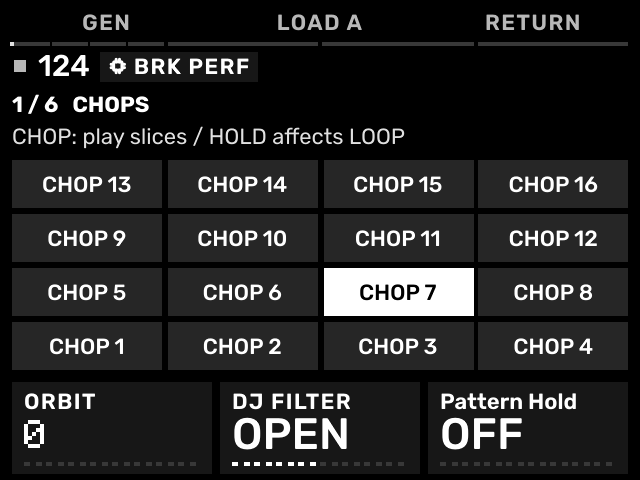
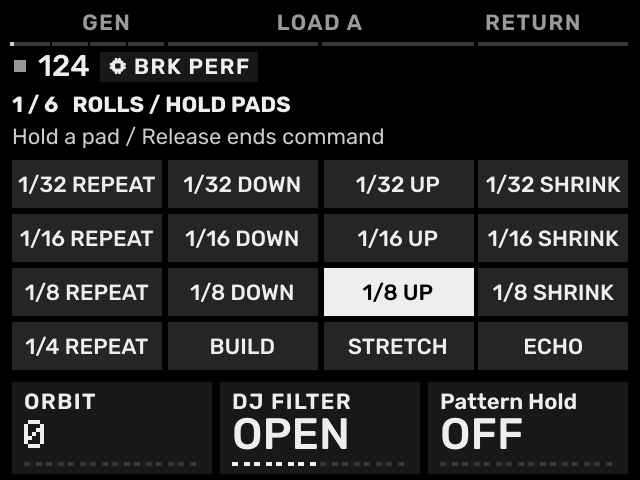
Align Break performance screens and installation download checksums

diff --git a/mpc-sample/index.html b/mpc-sample/index.html
@@ -3,7 +3,7 @@
 <section id="launch-film" class="film-section"><div class="film-heading"><div><p class="eyebrow">WATCH / RHYTHMER OS FOR MPC SAMPLE</p><h2>Your Sample. More to explore.</h2></div><p>Jungle, Techno, House & IDM — an introduction to RHYTHMER OS, its sound engines and ways to build a groove.</p></div><video class="product-film" controls playsinline preload="none" poster="assets/films/launch-youtube.jpg" aria-label="RHYTHMER OS for MPC Sample — landscape film"><source src="https://github.com/jazzyrhythmer/mpc-sample-rhythmer-os/releases/download/v0.4.0-beta.3-r1/RHYTHMER-OS-Launch-YouTube-60s-Acid-Flow.mp4" type="video/mp4">Your browser cannot play this video. <a href="https://github.com/jazzyrhythmer/mpc-sample-rhythmer-os/releases/download/v0.4.0-beta.3-r1/RHYTHMER-OS-Launch-YouTube-60s-Acid-Flow.mp4">Download the film.</a></video><div class="film-links"><a href="https://github.com/jazzyrhythmer/mpc-sample-rhythmer-os/releases/download/v0.4.0-beta.3-r1/RHYTHMER-OS-Launch-YouTube-60s-Acid-Flow.mp4">DOWNLOAD / 16:9 ↗</a><a href="https://github.com/jazzyrhythmer/mpc-sample-rhythmer-os/releases/tag/v0.2.0">OS RELEASE & SOURCE ↗</a></div></section>
 <section id="startup" class="boot-intro"><div><p class="eyebrow">POWER ON / RHYTHMER OS FOR MPC SAMPLE</p><h2>Power on.<br>Follow the possibilities.</h2><p>Your MPC Sample is ready for a new session. Explore synths, build a drum part, flip a break — and see where the next idea takes you.</p><a class="textlink" href="manual/#start">START YOUR FIRST SESSION ↗</a></div><figure class="boot-preview" data-boot-preview><div class="boot-screen"><img src="assets/boot/still.png?v=miniatures-fit1" width="640" height="480" alt="RHYTHMER OS for MPC Sample boot screen"><canvas hidden aria-hidden="true"></canvas></div><figcaption>RHYTHMER OS / FOR MPC SAMPLE</figcaption><button type="button" aria-pressed="false">PLAY BOOT ▶</button></figure></section>
 <section id="workflow"><div class="section-top"><p class="eyebrow">01 / FIND YOUR FLOW</p><h2>Less blank canvas.<br>More starting points.</h2></div><div class="features"><article><span class="num">01</span><h3>Generate. Then make it yours.</h3><p>A four-track song group connects drums with melodic parts. Keep the existing single-track generator, or open Chord GEN for explicit progressions, voicings and Block, Arp or Strum playing. Follow the project key and scale or use a local override.</p><a class="textlink" href="manual/#generate-chords-on-one-track">LEARN CHORD GEN ↗</a></article><article><span class="num">02</span><h3>A kit is not a single sound.</h3><p>Start with a complete Rhythmer Kit, then replace individual pad sounds. Single instruments retain their own presets and sound controls. Different jobs, clearly separated.</p></article><article><span class="num">03</span><h3>Generate Acid. Rearrange breaks.</h3><p>Acid has its own bassline generator. Break turns a loop into playable slices with dedicated pattern generation. Engine-specific pages follow the instrument you are working with.</p></article></div></section>
-<section class="workflow-tools"><p class="eyebrow">MORE WAYS TO BUILD A PATTERN</p><h2>Generate, edit and perform.</h2><div class="features"><article><h3>Song generation</h3><p>Generate a four-track group with drum and melodic roles. Adjust energy and seed, then edit the result.</p></article><article><h3>Keep sounds, change patterns</h3><p>Mutate a song group or focus on one track without replacing its sounds. Undo returns to the previous idea.</p></article><article><h3>Kit and pad editing</h3><p>Start from a complete Rhythmer Kit, replace individual pad sounds, and shape each part.</p></article></div></section><section class="spotlights" id="performance-tools"><article id="acid-generator"><div><p class="eyebrow">ACID GENERATOR / DEDICATED BASSLINES</p><h2>A new line.<br>Another way to move.</h2><p>Generate and mutate acid basslines with dedicated density, accent, slide and octave controls. Shape the notes first, then perform the sound.</p><ul><li>Two settings pages; the generator manages each track’s seed internally.</li><li>Slides, accents and sustained ties from the FM-1 generator lineage.</li><li>Optional Auto Mutate at a musical bar interval.</li></ul><a class="textlink" href="manual/#acid-generator">LEARN THE ACID GENERATOR ↗</a></div><div class="feature-screens"><figure><img src="manual/assets/acid-settings-0.png?v=020-production-22" width="640" height="480" loading="lazy" alt="RHYTHMER ACID GEN density, accent and slide settings"><figcaption>DENSITY / ACCENT / SLIDE</figcaption></figure><figure><img src="manual/assets/acid-settings-1.png?v=020-production-22" width="640" height="480" loading="lazy" alt="RHYTHMER ACID GEN octave and Auto Mutate settings"><figcaption>OCTAVES / AUTO MUTATE</figcaption></figure></div></article><article id="break-manipulator"><div><p class="eyebrow">BREAK MANIPULATOR / BRK PERF</p><h2>Chop it.<br>Roll it. Play it.</h2><p>Bring a loop, prepare sixteen slices, then get hands-on with rolls, A/B source switches, freeze, grain and stretch. Record those moves into the pattern.</p><ul><li>Six performance pages built around the pads and three knobs.</li><li>Chops, repeat / up / down / shrink, Build, Stretch and Echo.</li><li>A/B sources, loop Variation / Drift and sequence-recorded commands.</li></ul><p class="feature-footnote">Uses your own loops. No break recordings bundled. Source length is declared as 1–4 bars; cuts divide the complete loop equally.</p><a class="textlink" href="manual/#break-manipulator">PREPARE A LOOP ↗</a><a class="textlink" href="manual/#break-performance">EXPLORE BRK PERF ↗</a></div><div class="feature-screens"><figure><img src="manual/assets/break-perf-1.png?v=020-production-22" width="640" height="480" loading="lazy" alt="RHYTHMER Break Manipulator roll pad performance screen"><figcaption>ROLLS / HOLD PADS</figcaption></figure><figure><img src="manual/assets/break-perf-2.png?v=020-production-22" width="640" height="480" loading="lazy" alt="RHYTHMER Break Manipulator A/B source performance screen"><figcaption>SOURCE A / B</figcaption></figure></div></article></section>
+<section class="workflow-tools"><p class="eyebrow">MORE WAYS TO BUILD A PATTERN</p><h2>Generate, edit and perform.</h2><div class="features"><article><h3>Song generation</h3><p>Generate a four-track group with drum and melodic roles. Adjust energy and seed, then edit the result.</p></article><article><h3>Keep sounds, change patterns</h3><p>Mutate a song group or focus on one track without replacing its sounds. Undo returns to the previous idea.</p></article><article><h3>Kit and pad editing</h3><p>Start from a complete Rhythmer Kit, replace individual pad sounds, and shape each part.</p></article></div></section><section class="spotlights" id="performance-tools"><article id="acid-generator"><div><p class="eyebrow">ACID GENERATOR / DEDICATED BASSLINES</p><h2>A new line.<br>Another way to move.</h2><p>Generate and mutate acid basslines with dedicated density, accent, slide and octave controls. Shape the notes first, then perform the sound.</p><ul><li>Two settings pages; the generator manages each track’s seed internally.</li><li>Slides, accents and sustained ties from the FM-1 generator lineage.</li><li>Optional Auto Mutate at a musical bar interval.</li></ul><a class="textlink" href="manual/#acid-generator">LEARN THE ACID GENERATOR ↗</a></div><div class="feature-screens"><figure><img src="manual/assets/acid-settings-0.png?v=020-production-22" width="640" height="480" loading="lazy" alt="RHYTHMER ACID GEN density, accent and slide settings"><figcaption>DENSITY / ACCENT / SLIDE</figcaption></figure><figure><img src="manual/assets/acid-settings-1.png?v=020-production-22" width="640" height="480" loading="lazy" alt="RHYTHMER ACID GEN octave and Auto Mutate settings"><figcaption>OCTAVES / AUTO MUTATE</figcaption></figure></div></article><article id="break-manipulator"><div><p class="eyebrow">BREAK MANIPULATOR / BRK PERF</p><h2>Chop it.<br>Roll it. Play it.</h2><p>Bring a loop, prepare sixteen slices, then get hands-on with rolls, A/B source switches, freeze, grain and stretch. Record those moves into the pattern.</p><ul><li>Six performance pages built around the pads and three knobs.</li><li>Chops, repeat / up / down / shrink, Build, Stretch and Echo.</li><li>A/B sources, loop Variation / Drift and sequence-recorded commands.</li></ul><p class="feature-footnote">Uses your own loops. No break recordings bundled. Source length is declared as 1–4 bars; cuts divide the complete loop equally.</p><a class="textlink" href="manual/#break-manipulator">PREPARE A LOOP ↗</a><a class="textlink" href="manual/#break-performance">EXPLORE BRK PERF ↗</a></div><div class="feature-screens"><figure><img src="manual/assets/break-perf-0.png?v=brk-rolls-first" width="640" height="480" loading="lazy" alt="RHYTHMER Break Manipulator roll pad performance screen"><figcaption>ROLLS / HOLD PADS</figcaption></figure><figure><img src="manual/assets/break-perf-2.png?v=020-production-22" width="640" height="480" loading="lazy" alt="RHYTHMER Break Manipulator A/B source performance screen"><figcaption>SOURCE A / B</figcaption></figure></div></article></section>
 <section id="engines"><div class="section-top"><p class="eyebrow">02 / THE SOUND PALETTE</p><h2>Meet your next idea.</h2><p>Pick an engine. Explore its character, presets and control vocabulary.</p></div><div class="filters" role="group" aria-label="Filter engines"><button class="active" data-filter="All">ALL / 22</button><button data-filter="Drums">DRUMS</button><button data-filter="Bass">ACID</button><button data-filter="Sampler">BREAK</button><button data-filter="Synths">SYNTHS</button></div><div class="explorer"><div id="engine-list" aria-label="Engine selection"></div><article class="engine-detail" aria-live="polite"><p class="eyebrow" id="engine-category"></p><h3 id="engine-name"></h3><h4 id="engine-hook"></h4><p id="engine-description"></p><figure id="engine-capture"><div class="detail-live"><img id="engine-image" alt=""><canvas id="detail-motion" aria-hidden="true"></canvas></div><figcaption id="engine-caption"></figcaption></figure><div class="explorer-audio"><label id="explorer-audio-label" for="explorer-audio">PREVIEW</label><audio id="explorer-audio" controls preload="none" aria-labelledby="explorer-audio-label"></audio></div><div class="control-screen" id="controls"></div><p class="fine" id="control-note"></p><div id="presets"></div></article></div><p class="fine"></p><details><summary>What is inside Rhythmer Kit?</summary><p>36 curated kits from Sophie, Elixir, Hortator, DRUM-X, K-WASUB drum mode, 6W6, 8W8, 9W9, CW-78 and TR-MPC. Kit-only sources are not additional standalone engine entries. The existing Sample Kit workflow remains a separate sampler option.</p></details></section>
 <section id="first-groove" class="first-groove-feature" aria-labelledby="first-groove-title"><p class="eyebrow">FIRST SESSION / WATCH &amp; MAKE</p><h2 id="first-groove-title">Your first groove<br>with RHYTHMER OS.</h2><p class="groove-lead">Find a sound. Build a groove. Make it yours.</p><p class="groove-copy">Take the engines into your first session: a drum kit, bass, FM-106 chords, an acid phrase and a chopped Think break. The video demonstrates the musical idea using earlier screens. Follow the updated 0.2.0 written guide for current buttons, track setup, sound editing and Break controls.</p><div class="groove-video-wrap"><video class="groove-video product-film" controls playsinline preload="none" tabindex="0" poster="manual/assets/fg4-youtube.jpg" aria-label="Your first groove with RHYTHMER OS video"><source src="https://github.com/jazzyrhythmer/mpc-sample-rhythmer-os/releases/download/v0.4.0-beta.3-r2/RHYTHMER-Your-First-Groove-YouTube-v4.mp4" type="video/mp4"><track kind="subtitles" srclang="en" label="English" src="manual/assets/fg4-youtube.vtt">Your browser cannot play this video. <a href="manual/quickstart.html">Open the first-groove guide.</a></video></div><div class="groove-session-meta"><span>4 BARS / 140 BPM / C MINOR</span><span>WATCH FIRST · FOLLOW AT YOUR OWN PACE</span></div><div class="groove-cta"><a class="groove-primary" href="manual/quickstart.html">MAKE YOUR FIRST GROOVE ↗</a><a href="manual/">OPEN THE FULL MANUAL ↗</a></div><p class="groove-fine">A guided session with RHYTHMER OS for MPC Sample. The written guide uses the current 0.2.0 controls. Use your own permitted break sample.</p></section>
 <section id="story"><p class="eyebrow">03 / FROM THE STUDIO</p><div class="story"><h2>From FM-1 curiosity<br>to MPC Sample<br>possibilities.</h2><div><p>I loved exploring open-source engines, building grooves and finding unexpected sounds with RHYTHMER OS on the FM-1. I wanted to bring that freedom and variety to the MPC Sample.</p><p>This project builds on Melodee. Much respect to its developers and contributors for sharing a foundation that gives the community room to experiment.</p><p>My work focuses on porting and optimizing additional engines for the hardware, integrating them with the existing foundation, and adding my own tools, UI refinements and workflow extensions. The original engine creators deserve the credit for their DSP, ideas and sound.</p><p>If you know the stock workflow, this may feel unfamiliar. Give it time, explore, and tell me what gets in the way. There is still plenty to refine.</p><p class="signature">In search of feel-good rhythms.</p></div></div></section>

diff --git a/mpc-sample/manual/quickstart.html b/mpc-sample/manual/quickstart.html
@@ -59,10 +59,10 @@
 <p><strong>Do not apply GENERATE SONG to tracks 1–4 here.</strong> SOUND + MIDI can replace the instruments and patterns you just recorded. ACID GEN and GENERATE T4 work on the selected track instead.</p>
 <h2 id="optional-add-your-own-break-loop-on-track-5">Optional: add your own Break loop on track 5</h2>
 <figure><a href="images/020-break-browse-open.png" target="_blank" rel="noopener" title="Open full-size screen"><img src="images/020-break-browse-open.png" alt="Break source browser: select the source and its bar length" loading="lazy" decoding="async" width="640" height="480"></a><figcaption>Break source browser: select the source and its bar length</figcaption></figure>
-<figure><a href="images/020-break-perf-0.png" target="_blank" rel="noopener" title="Open full-size screen"><img src="images/020-break-perf-0.png" alt="BRK PERF 1: play sixteen chops" loading="lazy" decoding="async" width="640" height="480"></a><figcaption>BRK PERF 1: play sixteen chops</figcaption></figure>
-<figure><a href="images/020-break-perf-1.png" target="_blank" rel="noopener" title="Open full-size screen"><img src="images/020-break-perf-1.png" alt="BRK PERF 2: hold and release performance commands" loading="lazy" decoding="async" width="640" height="480"></a><figcaption>BRK PERF 2: hold and release performance commands</figcaption></figure>
-<ol><li>Put a loop you may use in the card's Samples folder. Start with a known <strong>two-bar</strong> loop.</li><li>Select track 5 → Plugin → <strong>Break Engine</strong>.</li><li>In the browser check <strong class="key">LOAD A</strong> and set <strong>K1 LOAD BARS = 2</strong> before selecting the file and pushing.</li><li>Wait for preparation. BREAK GEN stays open; a straight pattern is prepared if the destination pattern was empty.</li><li>Press PLAY. A two-bar Break pattern can repeat while tracks 1–3 play four bars; their lengths do not have to match.</li><li>Choose <strong class="key">BRK PERF</strong>. Page <strong class="key">1 CHOPS</strong> plays slices; turn the encoder to <strong class="key">2 ROLLS / HOLD PADS</strong> and hold/release a repeat command.</li><li>To reopen setup: select track 5 → SEQ → B1 PATTERNS → SHIFT + B3 GEN → BREAK GEN.</li></ol>
-<p>If it plays at half/double the intended speed, check the source's bar count. Changing Grain knobs alone does not trigger stretching: hold pad 3 STRETCH on page 2, keep it held and turn to page 5. LOOP VARIATIONS requires LOOP mode, playback and PATTERN HOLD off. See the <a href="index.html#12-load-a-break-and-return-to-its-controls">Break instructions</a> before using those pages.</p>
+<figure><a href="images/020-break-perf-0.png" target="_blank" rel="noopener" title="Open full-size screen"><img src="images/020-break-perf-0.png" alt="BRK PERF 1: play sixteen chops" loading="lazy" decoding="async" width="320" height="240"></a><figcaption>BRK PERF 1: play sixteen chops</figcaption></figure>
+<figure><a href="images/020-break-perf-1.png" target="_blank" rel="noopener" title="Open full-size screen"><img src="images/020-break-perf-1.png" alt="BRK PERF 2: hold and release performance commands" loading="lazy" decoding="async" width="320" height="240"></a><figcaption>BRK PERF 2: hold and release performance commands</figcaption></figure>
+<ol><li>Put a loop you may use in the card's Samples folder. Start with a known <strong>two-bar</strong> loop.</li><li>Select track 5 → Plugin → <strong>Break Engine</strong>.</li><li>In the browser check <strong class="key">LOAD A</strong> and set <strong>K1 LOAD BARS = 2</strong> before selecting the file and pushing.</li><li>Wait for preparation. BREAK GEN stays open; a straight pattern is prepared if the destination pattern was empty.</li><li>Press PLAY. A two-bar Break pattern can repeat while tracks 1–3 play four bars; their lengths do not have to match.</li><li>Choose <strong class="key">BRK PERF</strong>. The first page, <strong class="key">1 ROLLS / HOLD PADS</strong>, plays held effects. Turn the encoder to <strong class="key">2 CHOPS</strong> to play individual slices.</li><li>To reopen setup: select track 5 → SEQ → B1 PATTERNS → SHIFT + B3 GEN → BREAK GEN.</li></ol>
+<p>If it plays at half/double the intended speed, check the source's bar count. Changing Grain knobs alone does not trigger stretching: hold pad 3 STRETCH on page 1, keep it held and turn to page 5. LOOP VARIATIONS requires LOOP mode, playback and PATTERN HOLD off. See the <a href="index.html#12-load-a-break-and-return-to-its-controls">Break instructions</a> before using those pages.</p>
 <h2 id="if-you-get-stuck">If you get stuck</h2>
 <div class="table"><div class="table-scroll" role="region" aria-label="Reference table" tabindex="0"><table><thead><tr><th>What happened</th><th>Do this</th></tr></thead><tbody><tr><td>I cannot find the sound page</td><td>Press SAMPLE</td></tr><tr><td>Pads switch patterns</td><td>Release SEQ; press SAMPLE</td></tr><tr><td>Wrong track is being edited</td><td>PAD BANK + target pad; check the header</td></tr><tr><td>No plug-ins listed</td><td>Check the full SD installation and Rhythmer/Plugins</td></tr><tr><td>B1 is a rate instead of TRACK SETUP</td><td>Turn off NOTE REPEAT / ARP, then reopen TRACKS</td></tr><tr><td>I see Save Slot instead of synth controls</td><td>SHIFT + encoder push; return to sound-screen EDIT</td></tr><tr><td>I lost the Break menu</td><td>SEQ → B1 PATTERNS → SHIFT + B3 GEN → BREAK GEN</td></tr><tr><td>An effect or note will not stop</td><td>STOP twice within 400 ms</td></tr></tbody></table></div></div>
 <p>The <a href="index.html">full manual</a> explains instrument replacement, User Sound/Kit saving and the six Break pages. Use the <a href="index.html#essential-controls">button reference</a> to distinguish selecting a track, opening its instrument and choosing its pattern.</p></article></div></main><footer class="manual-footer"><p>RHYTHMER OS — by jazzy rhythmer. Based on Melodee by Kerem Kiliç (Ellic Studio) and the credited engine projects. </p><a href="https://jazzyrhythmer.github.io/mpc-sample/installer/">Installation</a><a href="https://github.com/jazzyrhythmer/mpc-sample-rhythmer-os">Source &amp; credits</a><a href="LICENSE.txt">Licence</a></footer><script>document.getElementById('contents').open=matchMedia('(min-width:901px)').matches;const links=[...document.querySelectorAll('.toc a')];if('IntersectionObserver' in window){const observer=new IntersectionObserver(es=>{for(const e of es)if(e.isIntersecting){for(const a of links){if(a.hash==='#'+e.target.id)a.setAttribute('aria-current','location');else a.removeAttribute('aria-current');}}},{rootMargin:'-20% 0px -65% 0px'});document.querySelectorAll('.doc h2[id]').forEach(h=>observer.observe(h));}document.querySelector('[data-print]').addEventListener('click',()=>window.print());</script></body></html>

diff --git a/mpc-sample/manual/index.html b/mpc-sample/manual/index.html
@@ -112,14 +112,14 @@
 <p>Selecting Break Engine is not the same as loading its source audio: the change is committed after successful file loading. <strong>B1 CANCEL / SHIFT + push while loading</strong> cancels assignment. A later completed decode must not replace another selected track.</p>
 <p>For a new rhythm, select <strong>Straight / Genre / Random / Mutate / Tail Fill</strong> in BREAK GEN and apply it. These change notes/chop order in the pattern. They do not by themselves enable LOOP variation or a STRETCH performance command.</p>
 <span id="break-performance"></span><h3 id="brk-perf-what-each-page-does">BRK PERF: what each page does</h3>
-<figure><a href="images/020-break-perf-0.png" target="_blank" rel="noopener" title="Open full-size screen"><img src="images/020-break-perf-0.png" alt="BRK PERF 1: play sixteen chops" loading="lazy" decoding="async" width="640" height="480"></a><figcaption>BRK PERF 1: play sixteen chops</figcaption></figure>
-<figure><a href="images/020-break-perf-1.png" target="_blank" rel="noopener" title="Open full-size screen"><img src="images/020-break-perf-1.png" alt="BRK PERF 2: hold and release performance commands" loading="lazy" decoding="async" width="640" height="480"></a><figcaption>BRK PERF 2: hold and release performance commands</figcaption></figure>
+<figure><a href="images/020-break-perf-0.png" target="_blank" rel="noopener" title="Open full-size screen"><img src="images/020-break-perf-0.png" alt="BRK PERF 1: hold and release performance commands" loading="lazy" decoding="async" width="320" height="240"></a><figcaption>BRK PERF 1: hold and release performance commands</figcaption></figure>
+<figure><a href="images/020-break-perf-1.png" target="_blank" rel="noopener" title="Open full-size screen"><img src="images/020-break-perf-1.png" alt="BRK PERF 2: play sixteen chops" loading="lazy" decoding="async" width="320" height="240"></a><figcaption>BRK PERF 2: play sixteen chops</figcaption></figure>
 <figure><a href="images/020-break-perf-2.png" target="_blank" rel="noopener" title="Open full-size screen"><img src="images/020-break-perf-2.png" alt="BRK PERF 3: source A, source B and Return" loading="lazy" decoding="async" width="640" height="480"></a><figcaption>BRK PERF 3: source A, source B and Return</figcaption></figure>
 <figure><a href="images/020-break-perf-3.png" target="_blank" rel="noopener" title="Open full-size screen"><img src="images/020-break-perf-3.png" alt="BRK PERF 4: LOOP variations" loading="lazy" decoding="async" width="640" height="480"></a><figcaption>BRK PERF 4: LOOP variations</figcaption></figure>
 <figure><a href="images/020-break-perf-4.png" target="_blank" rel="noopener" title="Open full-size screen"><img src="images/020-break-perf-4.png" alt="BRK PERF 5: Grain controls while STRETCH is active" loading="lazy" decoding="async" width="640" height="480"></a><figcaption>BRK PERF 5: Grain controls while STRETCH is active</figcaption></figure>
 <figure><a href="images/020-break-perf-5.png" target="_blank" rel="noopener" title="Open full-size screen"><img src="images/020-break-perf-5.png" alt="BRK PERF 6: track mix" loading="lazy" decoding="async" width="640" height="480"></a><figcaption>BRK PERF 6: track mix</figcaption></figure>
 <p>Turn the encoder to move through the six numbered pages. The caption shows your position.</p>
-<div class="table"><div class="table-scroll" role="region" aria-label="Reference table" tabindex="0"><table><thead><tr><th>Page</th><th>Action to try</th><th>What must be true / expected result</th></tr></thead><tbody><tr><td>1 CHOPS</td><td>Hit pads 1–16</td><td>Play the loop's sixteen slices. B2 LOAD A browses source A.</td></tr><tr><td>2 ROLLS / HOLD PADS</td><td>Hold a repeat pad while the pattern plays; release it</td><td>Hear the held command; releasing ends it. Pad 3 is STRETCH.</td></tr><tr><td>3 SOURCE A / B</td><td>B2 LOAD B, then choose B; pad 1 selects A, pad 2 selects B</td><td>B must be loaded first. Pad 3 / RETURN restores straight playback.</td></tr><tr><td>4 LOOP VARIATIONS</td><td>Set SOURCE's PLAY MODE to LOOP; set PATTERN HOLD off; raise Variation or Drift</td><td>These variations act in LOOP playback. They do not vary ordinary CHOP playback.</td></tr><tr><td>5 GRAIN / STRETCH</td><td>Hold pad 3 on page 2, keep it held and turn the encoder to page 5</td><td>Adjust grain processing while STRETCH is active. Merely turning these knobs does not start STRETCH.</td></tr><tr><td>6 TRACK MIX</td><td>Adjust level, pan and send A</td><td>Mix the Break track; these are not source-bar or chop controls.</td></tr></tbody></table></div></div>
+<div class="table"><div class="table-scroll" role="region" aria-label="Reference table" tabindex="0"><table><thead><tr><th>Page</th><th>Action to try</th><th>What must be true / expected result</th></tr></thead><tbody><tr><td>1 ROLLS / HOLD PADS</td><td>Hold a repeat pad while the pattern plays; release it</td><td>Hear the held command; releasing ends it. Pad 3 is STRETCH.</td></tr><tr><td>2 CHOPS</td><td>Hit pads 1–16</td><td>Play the loop's sixteen slices. B2 LOAD A browses source A.</td></tr><tr><td>3 SOURCE A / B</td><td>B2 LOAD B, then choose B; pad 1 selects A, pad 2 selects B</td><td>B must be loaded first. Pad 3 / RETURN restores straight playback.</td></tr><tr><td>4 LOOP VARIATIONS</td><td>Set SOURCE's PLAY MODE to LOOP; set PATTERN HOLD off; raise Variation or Drift</td><td>These variations act in LOOP playback. They do not vary ordinary CHOP playback.</td></tr><tr><td>5 GRAIN / STRETCH</td><td>Hold pad 3 on page 1, keep it held and turn the encoder to page 5</td><td>Adjust grain processing while STRETCH is active. Merely turning these knobs does not start STRETCH.</td></tr><tr><td>6 TRACK MIX</td><td>Adjust level, pan and send A</td><td>Mix the Break track; these are not source-bar or chop controls.</td></tr></tbody></table></div></div>
 <p><strong class="key">PATTERN HOLD</strong> stops internal LOOP-pattern regeneration. It is not audio freeze, a sustained-note switch or the switch for Grain. If the status says <strong class="key">INACTIVE</strong>, <strong class="key">WAITING</strong> or <strong class="key">READY</strong>, read its condition before expecting a change. Page 5 needs STRETCH; page 4 needs LOOP, playback and Hold off.</p>
 <p>Load A and Load B are different actions. On source B changes, the bar structure must match the prepared loop. Replacing A with a different length asks for confirmation; Back cancels it. Use Undo/Redo to compare a completed source replacement. Keep the audio files on the card when saving the project.</p>
 <h2 id="13-mix-and-identify-the-filtereffect-you-are-changing">11. Mix and identify the filter/effect you are changing</h2>
